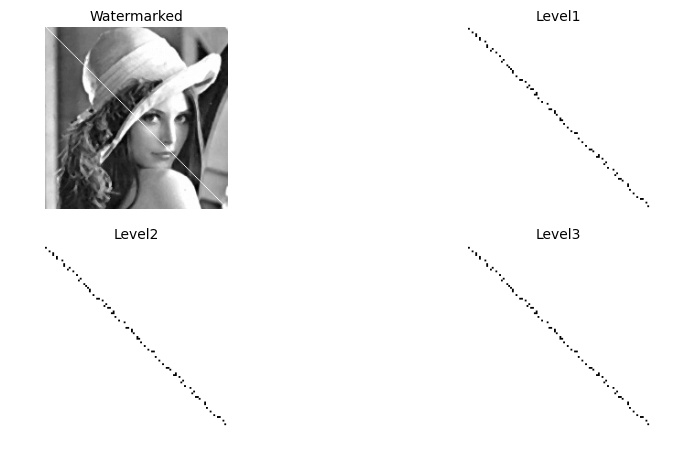
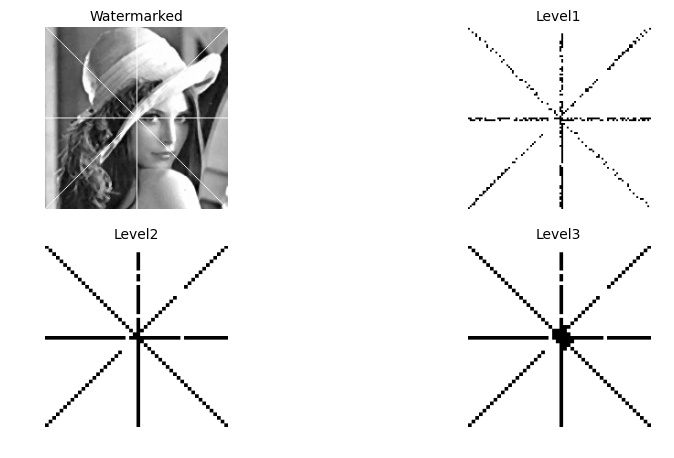
FIx fail in copy paste

diff --git a/Tests/Test_Watermark.py b/Tests/Test_Watermark.py
@@ -123,8 +123,8 @@ def test_levels():
     Watermarked = wm.apply_watermark('Images/Test1.jpg')
     Watermarked = drawImage(Watermarked)
     Level1 = td.level1(Watermarked)
-    Level2 = td.level1(Watermarked)
-    Level3 = td.level1(Watermarked)
+    Level2 = td.level2(Watermarked)
+    Level3 = td.level3(Watermarked)
 
     fig, ((ax_1, ax_2), (ax_3, ax_4)) = plt.subplots(nrows=2, ncols=2, figsize=(10, 5))
     ax_1.imshow(Watermarked, cmap=plt.cm.gray)
@@ -153,6 +153,11 @@ def drawImage(image):
     bb = 0
     while aa != a and bb != b:
         image[aa][bb] = 255
+        image[a - aa - 1][bb] = 255
         aa += 1
         bb += 1
+    for i in range(0, a):
+        image[i][b/2] = 255
+    for j in range(0, b):
+        image[a/2][j] = 255
     return image
